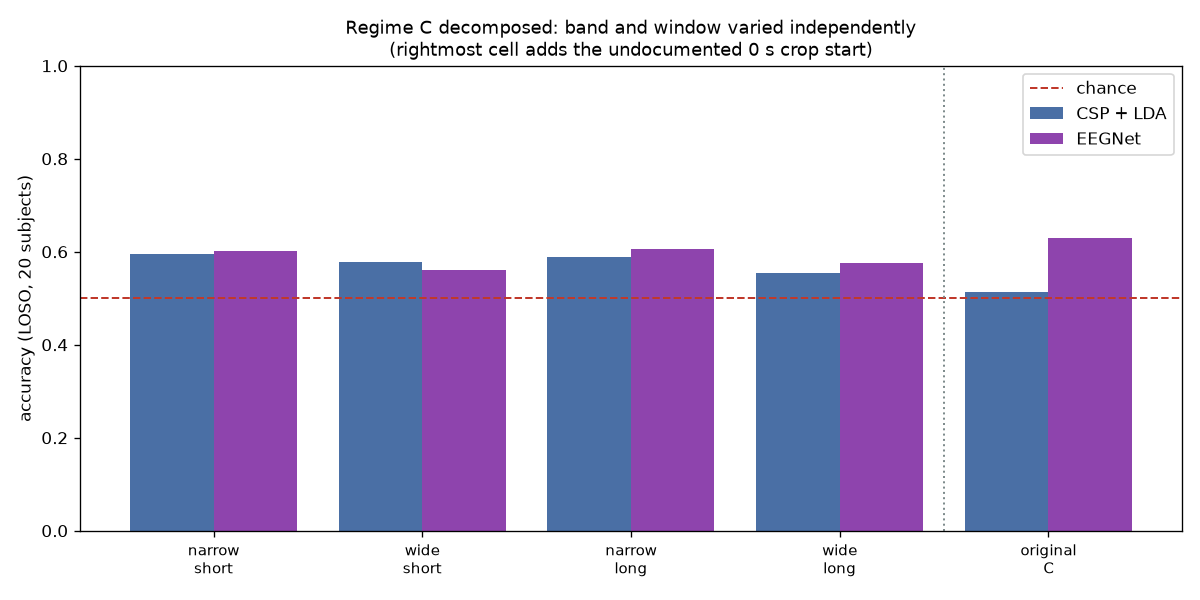
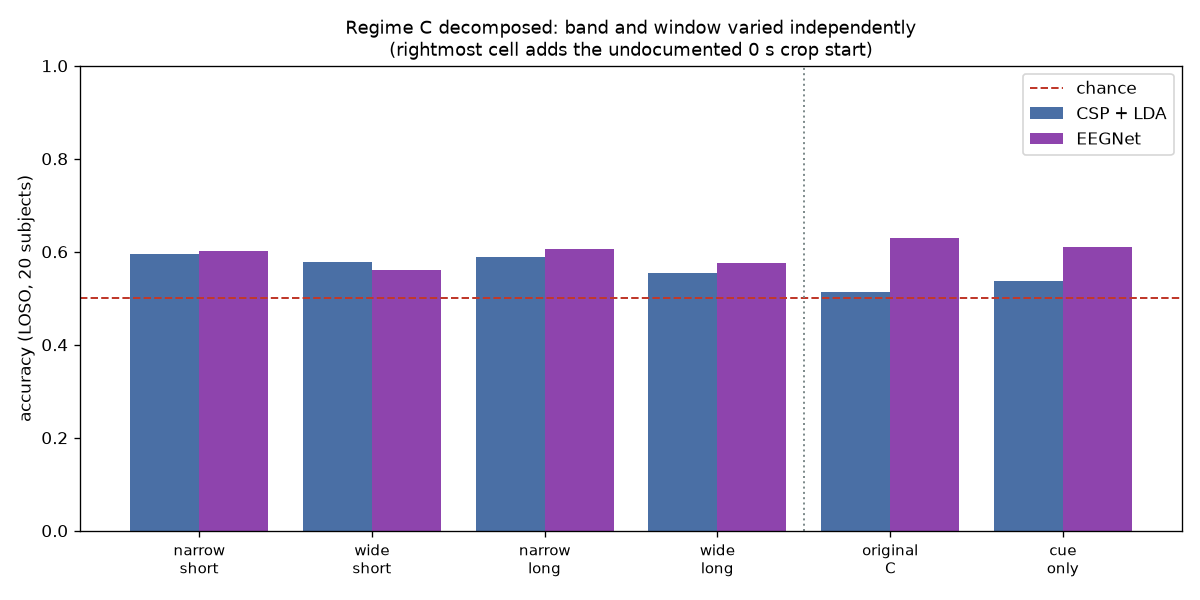
Rung 11 confirmed: the CNN was decoding the cue, not the imagery
The 2x2 showed regime C's entire "EEGNet wins" effect comes from admitting the
0-1 s cue period, not from the band or window the write-up credited. The obvious
explanation -- temporal convolutions can exploit a phase-locked cue-evoked
response while CSP's log-variance band power cannot -- was an INTERPRETATION.
Inventing the mechanism alongside the number is this project's recurring
failure, so it gets measured instead.

Sixth cell: decode the cue window ALONE (0-1 s, 4-38 Hz), which contains no
motor imagery whatsoever. Against the pooled majority-class floor of 50.1%:

  CSP + LDA   53.7%   95% CI [50.6%, 56.8%]   p = 0.027
  EEGNet      61.1%   95% CI [57.3%, 64.9%]   p < 0.0001

EEGNet decodes a window with no imagery in it at 61.1%. And adding the entire
three-second imagery window on top of the cue buys it +1.9 points, 95% CI
[-2.8, +6.6], p = 0.41 -- indistinguishable from nothing. CSP is not helped
either (-2.2, p = 0.20).

So EEGNet's 63.0% in regime C is, within measurement error, entirely available
from the cue alone. Confirmed: regime C measured the cue-evoked response.

That makes two of eleven rungs that turned out to be decoding the stimulus
rather than the intention (rung 7's gaze confound, rung 11's cue response).
Neither touches the fists-vs-feet headline, which passes its ocular checks
(HEOG p = 0.27, VEOG p = 0.44) and its channel ablation. Both are now in
section 14, and section 15 gains the "what did you get wrong" answer, which is
[…]

Changed region(s): [[0.2158, 0.39, 0.9558, 0.96], [0.1542, 0.42, 0.2158, 0.96]]

diff --git a/EXPLAINER.md b/EXPLAINER.md
@@ -643,7 +643,39 @@ cue-evoked response, while CSP's log-variance band power is close to blind to on
 same breath as the number.** So rung 11 tests it instead of asserting it, with a sixth cell that
 decodes the **cue window alone (0–1 s), which contains no imagery at all.**
 
-<!-- CUE-ONLY-RESULT -->
+**The confirmation.** Decoding the cue window on its own — 0–1 s, containing no motor imagery at
+all — against the pooled majority-class floor of **50.1%** (pooling 20 subjects balances the
+classes, unlike subject 1's 53.3%):
+
+| model | cue window alone | against chance |
+|---|---|---|
+| CSP + LDA | 53.7% | 95% CI [50.6%, 56.8%], p = 0.027 |
+| **EEGNet** | **61.1%** | 95% CI [57.3%, 64.9%], **p < 0.0001** |
+
+EEGNet decodes a window with no imagery in it at **61.1%**. And the decisive comparison: adding
+the entire three-second imagery window on top of the cue buys it **+1.9 points, 95% CI
+[−2.8, +6.6], p = 0.41** — indistinguishable from nothing. CSP is not helped either (−2.2 points,
+p = 0.20).
+
+So EEGNet's 63.0% in regime C is, within measurement error, **entirely available from the cue
+period alone**. The interpretation is now a measurement: regime C's "the ranking flips" is the
+CNN reading the **cue-evoked response**, not learning motor imagery better than CSP does. The
+reason CSP cannot follow it there is structural — a phase-locked evoked deflection is a
+*temporal* pattern, and CSP's log-variance features throw timing away by construction, keeping
+only band power.
+
+This is the same shape of finding as rung 7's gaze confound, and it earns the same framing: build
+a rung, believe it, then find the confound in your own result. **Two of the eleven rungs turned
+out to be decoding the stimulus rather than the intention.** For a project about reading
+*intent*, that is the most useful thing in the repository, and it is why regime C is kept and
+re-analysed rather than deleted.
+
+> **The general lesson, worth carrying to any BCI result.** Both confounds were invisible to
+> accuracy, to cross-validation, and to permutation testing, because in every case the model was
+> finding real, reproducible structure. It was simply the wrong structure. The only checks that
+> caught either one were **ablations that removed the thing the claim depends on** — frontopolar
+> channels in rung 7, the imagery window here. If a result cannot survive deleting what it
+> claims to be reading, the claim is about something else.
 
 ---
 
@@ -863,7 +895,7 @@ already built**. Here is the real state instead.
 | 8 | Does it transfer to an unseen person? | Near-parity, 95% CI **[−1.9, +11.2]**, p = 0.181. Cannot distinguish a drop from no drop |
 | 9 | Does a Riemannian method beat it? | No, but only **MDM-64 is significant** (p = 0.005); the rest is underpowered |
 | 10 | Does a CNN beat it? | Loses by **8.9 points** at n=45, level at ~900 trials |
-| 11 | What did rung 10's regime C measure? | The **cue period**, not the band or window it credited. That one undocumented change carries **+9.2 of the 11.6-point gap** (p = 0.015) |
+| 11 | What did rung 10's regime C measure? | **The cue, not the imagery.** EEGNet scores 61.1% on the cue window alone; adding the whole imagery window buys +1.9 (p = 0.41) |
 
 ### 12.1 What is retracted, and why that list matters
 
@@ -874,8 +906,10 @@ rather than quietly deleted, because the list is more informative than the resul
   28% was observed. It is evidence *of* signal.
 - **"EEGNet loses by 37.8 points."** A units bug. The network was never training. Real gap: 8.9.
 - **"The ranking flips once both models get a wider band and a longer window."** Three factors
-  moved at once. Rung 11 shows the effect is carried by a fourth thing nobody documented — the
-  cue period — and that the stated band mechanism is not merely unsupported but backwards.
+  moved at once, and the effect turns out to belong to none of the two that were credited. Rung
+  11 traces it to an undocumented crop-start change, shows the stated band mechanism is
+  backwards, and confirms by measurement that EEGNet scores **61.1% on a window containing no
+  imagery at all**.
 - **"73.3% is what a harder contrast costs."** Group value is ~7 points, and the rung is
   gaze-confounded.
 - **"No method dominates / the best method is subject-specific."** No subject × method
@@ -924,7 +958,7 @@ python decode_csp.py        # full pipeline + writes csp_patterns.png
   optional checkpoints you can run individually to inspect each stage; rungs 5–11 are the
   attacks on the result and each runs standalone.
 - Because `random_state=42` is fixed, `decode_csp.py` prints **91.1% (+/- 4.4%)** and
-  **p = 0.0010** exactly. The classical rungs are all deterministic in this way.
+  **p <= 0.001** exactly. The classical rungs are all deterministic in this way.
 - **The CNN rungs are not bit-reproducible.** Seeds are fixed for torch, numpy and python, but
   MPS (Apple GPU) kernels do not guarantee identical results run to run. Expect small drift in
   the EEGNet numbers and none in the classical baselines.
@@ -953,9 +987,13 @@ in BCI. Be ready to volunteer them:
    component is parieto-occipital and correlates r = 0.57 with the subject's own alpha map
    (§8.3). The real defence is the ablation in §10.5. For fists-vs-feet the ocular checks come
    back clean (HEOG p = 0.27, VEOG p = 0.44); for the left/right rung they emphatically do not.
-5. **A confirmed confound in the left/right rung.** Rung 7 decodes a lateralised gaze artifact
-   as much as motor imagery, and EEGMMIDB has no EOG channels, so it can be neither removed nor
-   measured directly.
+5. **Two confirmed confounds, in rungs 7 and 11.** Rung 7's left/right decoding rides a
+   lateralised gaze artifact, and EEGMMIDB ships no EOG channels, so it can be bounded but
+   neither removed nor monitored. Rung 11's wide-window CNN comparison turned out to be reading
+   the cue-evoked response: EEGNet scores **61.1% on a window containing no imagery at all**.
+   Neither touches the fists-vs-feet headline, which passes both its ocular checks and its
+   channel ablation — but together they are why this project treats "the accuracy is real" and
+   "the accuracy is measuring what I said it measures" as two separate claims.
 6. **Underpowered comparisons.** With n=20 subjects the minimum detectable difference is about
    5–6 points. Several "no difference" results in rungs 8 and 9 are really "this experiment
    cannot tell," which is a different statement.
@@ -985,7 +1023,27 @@ If a mentor says *"walk me through it,"* this is the spine:
 > chance. The honest caveats are that it's one subject and an easy contrast, and that subject sits
 > in the top decile of the 109 I swept, where the median is 60%."
 
-If you can say that, you own this repo.
+And when they ask the follow-up that actually matters — *"what did you get wrong?"* — this is the
+stronger half of the answer:
+
+> "Three things, and two of them are the same mistake. I built a left-versus-right rung and
+> reported what a harder contrast costs. It was decoding gaze: the cue sits on one side of the
+> screen for the whole trial, and a decoder using only frontopolar channels below 5 Hz matches my
+> 64-channel number on that subject. Then I compared against a CNN and reported that it wins once
+> you give it a wider band and a longer window. It wasn't the band or the window — I had also
+> moved the crop start without noting it, which let the cue-evoked response into the window. The
+> CNN scores 61% on the cue period alone, with no imagery in it at all, and adding the entire
+> imagery window on top buys it two points I can't distinguish from zero. Both times the model
+> was finding real, reproducible structure that survived permutation testing. It was just the
+> wrong structure. The third was a units bug: MNE returns volts, the network's batch-norm epsilon
+> is a thousand times larger than the signal variance, so it never trained and scored exactly the
+> majority-class rate — which reads as 'CNN performs at chance on small data,' a completely
+> plausible finding I wrote up as a headline."
+
+That answer is worth more than the 91%. Anyone can report an accuracy; the thing a lab is
+actually screening for is whether you find your own confounds before a reviewer does.
+
+If you can say both, you own this repo.
 
 ---
 

diff --git a/README.md b/README.md
@@ -142,7 +142,7 @@ Rungs 1–4 build the result. Rungs 5–11 attack it, and three of them found so
 | 8 | `cross_subject.py` | Leave-one-subject-out across 20 subjects |
 | 9 | `riemannian.py` | MDM and Tangent Space vs. the CSP baseline on identical folds |
 | 10 | `eegnet_compare.py` | EEGNet vs. CSP+LDA at two sample sizes. Where the units bug was found |
-| 11 | `regime_decomposition.py` | Decomposes rung 10's confounded third regime. The "EEGNet wins" result came from an undocumented crop-start change, not the band |
+| 11 | `regime_decomposition.py` | Decomposes rung 10's confounded third regime. The "EEGNet wins" result is the CNN reading the **cue**, not the imagery |
 
 ## Next
 
